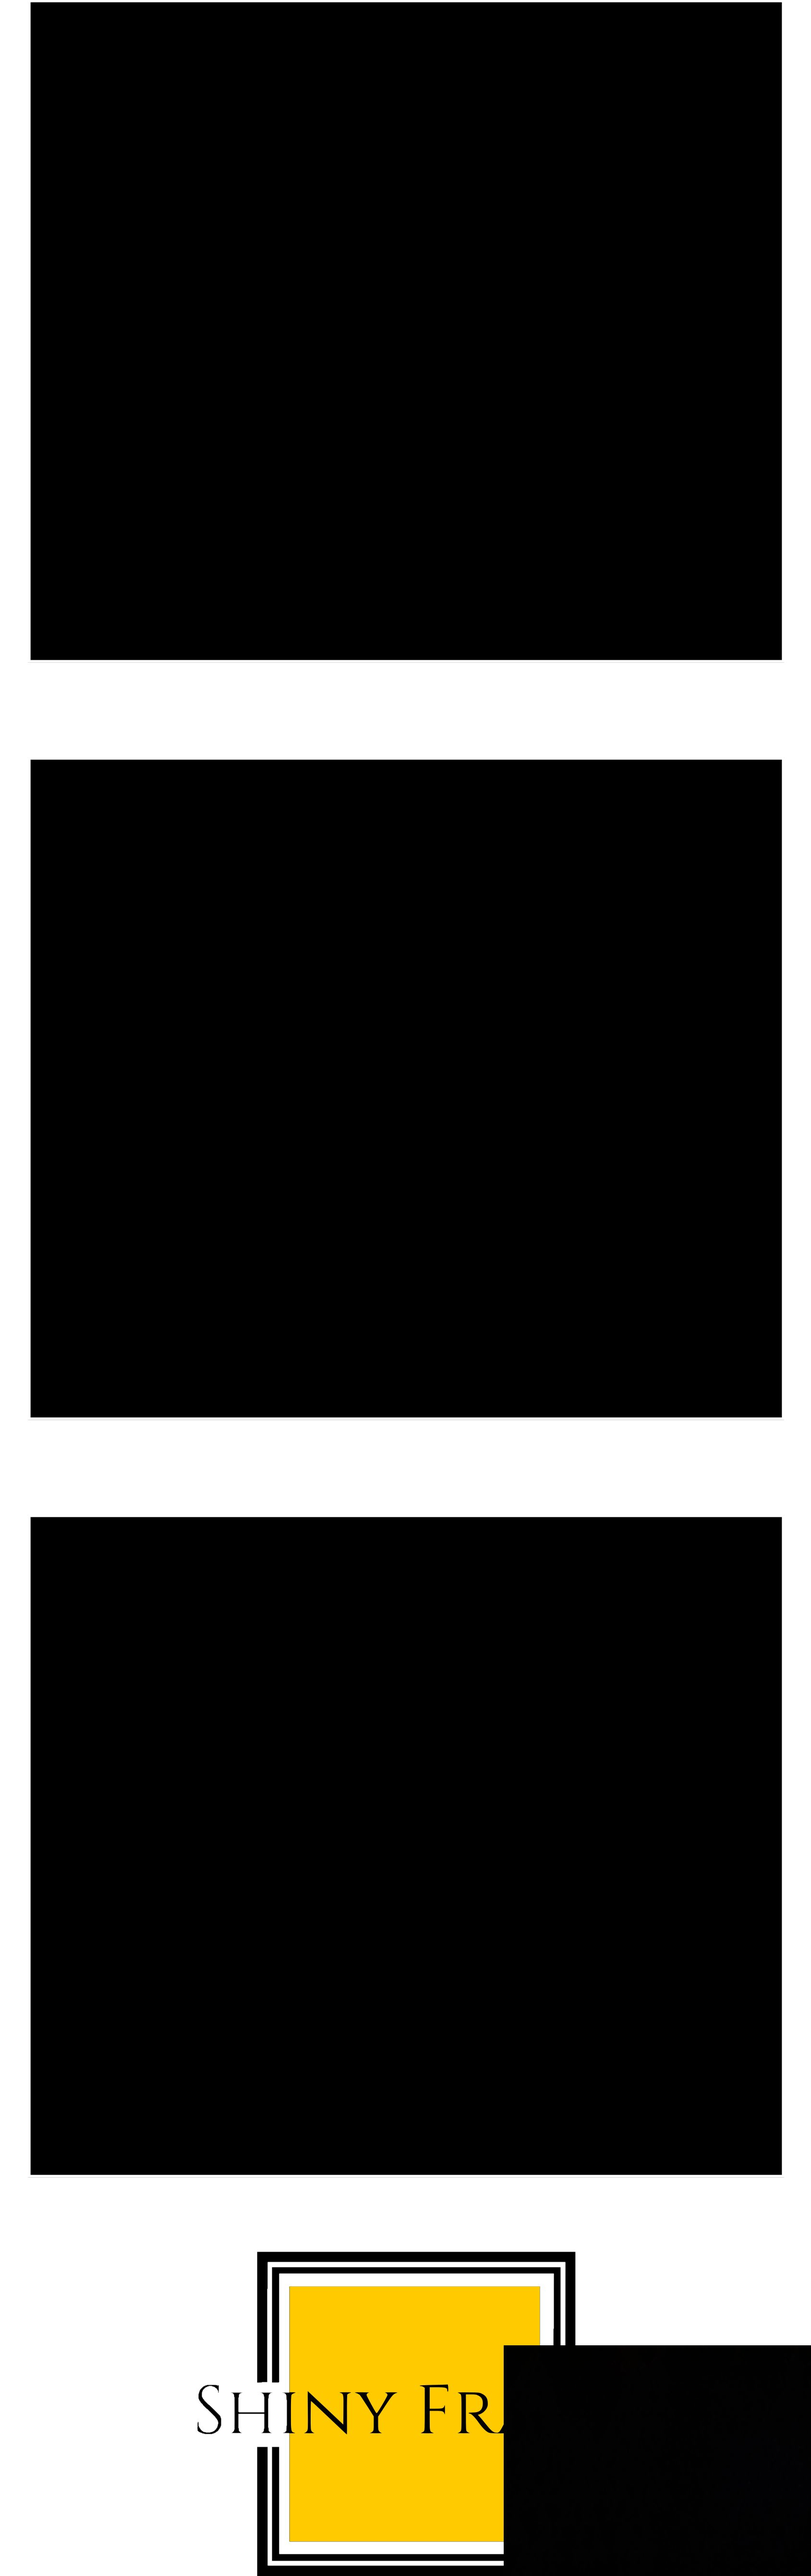
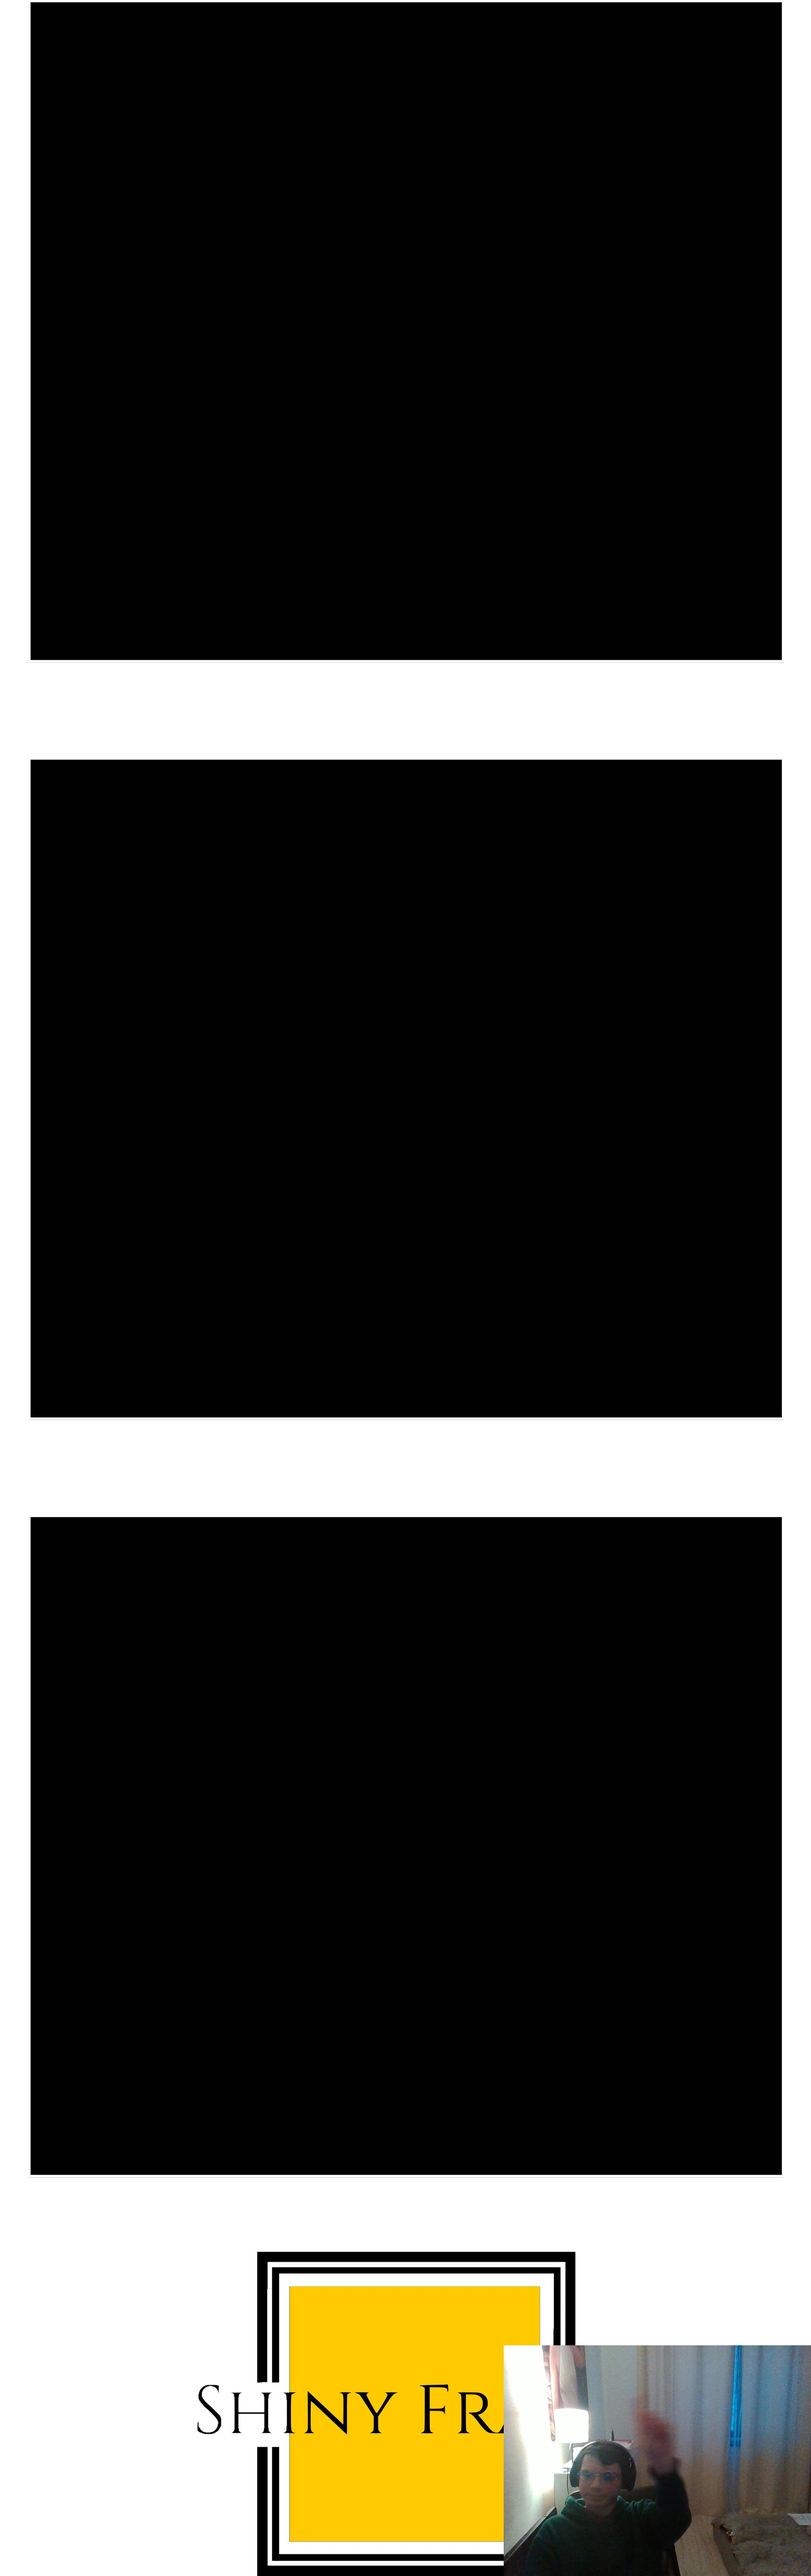
fixing child_process

Changed region(s): [[0.6157, 0.9035, 1.0, 1.0]]

diff --git a/public/index.html b/public/index.html
@@ -10,6 +10,9 @@
 		<meta name="viewport" content="width=device-width, initial-scale=1.0">
 		<link rel="stylesheet" href="assets/css/main.css"/>
 		<script src="assets/js/axios_1.3.4.min.js"></script>
+		<script src="inc/js/buffer-loader.js"></script>
+		<script src="inc/js/app.js" defer></script>
+
 		<!-- <script src="https://cdnjs.cloudflare.com/ajax/libs/axios/1.3.4/axios.min.js"></script> -->
 	</head>
 	<body>
@@ -69,11 +72,11 @@
 			<button onclick="newGesture(2)">B2</button>
 			<button onclick="newGesture(3)">B3</button>
 			<button onclick="newGesture(4)">B4</button>
-			<button onclick="controller.webcam.uploadPhoto()">UPLOAD IMAGE</button>
 			<button onclick="controller.leds.on()">LED ON</button>
 			<button onclick="controller.leds.off()">LED OFF</button>
 			<button onclick="controller.faceDetection.detect()">Face Detection</button>
 			 -->
+			<button onclick="controller.webcam.uploadPhoto()">UPLOAD IMAGE</button>
 			<button onclick="controller.template.make()">TEMPLATE</button>
 			<button onclick="gestDone()">GESTURE</button>
 			<!-- <form id="uploadform" method="post" enctype="multipart/form-data" action="http://localhost:3000/api/capture">
@@ -139,9 +142,7 @@
 <!-- TODO: Bring it to header -->
 
 <!-- <script src="inc/js/jquery.js"></script> -->
-<script src="inc/js/buffer-loader.js"></script>
 <!-- <script src="inc/js/html2canvas.js"></script> -->
-<script src="inc/js/app.js"></script>
 <!-- <script src="inc/js/face_recognition.js"></script> -->
 
 <script>
@@ -550,7 +551,7 @@
 	function faceRec(){
 		return 1;
 	}
-	window.onload = start_media();
+	// window.onload = start_media();
 	displayScreen(0);
 	// development
 	// function gestDone(){

diff --git a/src/controllers/ImageController.js b/src/controllers/ImageController.js
@@ -2,6 +2,16 @@ const path = require('path');
 const fs = require('fs');
 const sharp = require('sharp');
 module.exports = new class ImageController {
+
+  createDirIfNotExists(dir) {
+    if (!fs.existsSync(dir)){ 
+      if( !fs.existsSync(path.dirname(dir)) ){
+        this.createDirIfNotExists(path.dirname(dir))
+      }
+      fs.mkdirSync(dir) 
+    }
+    return dir
+  }
   
   /**
   * Getting image from external EOS camera
@@ -38,8 +48,10 @@ module.exports = new class ImageController {
    */
   capturePOST ( req, res) {
     const tempPath = req.file.path;
-    const dir = path.join(__dirname, "../../storage");
-    if (!fs.existsSync(dir)){ fs.mkdirSync(dir) }
+    // const dir = path.join(__dirname, "../../storage");
+    // if (!fs.existsSync(dir)){ fs.mkdirSync(dir) }
+    console.log({ this : this})
+    const dir = this.createDirIfNotExists(path.join(__dirname, "../../storage/captured"));
     // const targetPath = dir + "/img_"+ fs.readdirSync(dir).length +".png";
     const targetPath = dir + "/img_"+ fs.readdirSync(dir).length +".jpg";
     fs.rename(tempPath, targetPath, err => {

diff --git a/src/api.js b/src/api.js
@@ -9,7 +9,7 @@ const FaceRecognitionController = require('./controllers/FaceRecognitionControll
 
   router.route('/template').get( ImageController.template )
   router.route('/capture').get( ImageController.captureGET )
-                          .post( upload.single("file"), ImageController.capturePOST )
+                          .post( upload.single("file"), ImageController.capturePOST.bind(ImageController) )
 
   router.route('/leds/:state').get( LedsController.toggle )
   router.route('/faceRecognition').get( FaceRecognitionController.detect )

diff --git a/src/controllers/LedsController.js b/src/controllers/LedsController.js
@@ -1,4 +1,5 @@
-const { exec } = require('node:child_process');
+// const { exec } = require('node:child_process');
+const { exec } = require('child_process');
 
 module.exports = new class LedsController{
 

diff --git a/public/inc/js/app.js b/public/inc/js/app.js
@@ -172,3 +172,8 @@ function checkAreas(){
 	}
 	
 };
+
+
+window.addEventListener('load', ()=>{
+	start_media();
+})
